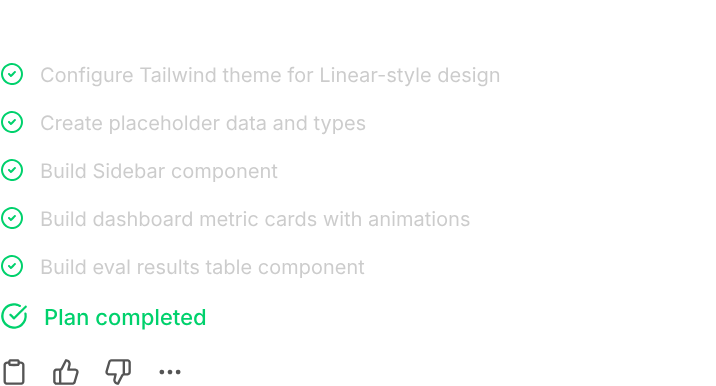
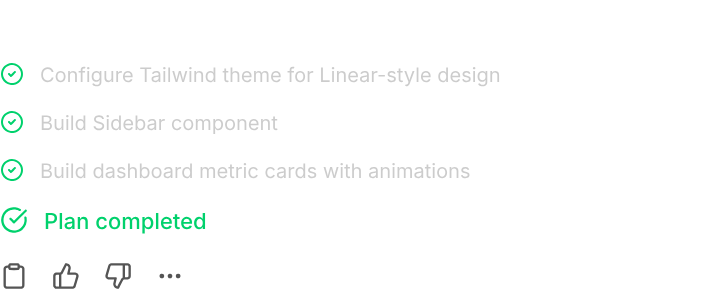
Hero chat: 3-step plan + grouped finish row + bolt-pixel thinking transitions between sections

diff --git a/platform.html b/platform.html
@@ -1840,12 +1840,42 @@
     /* widths as % of plan-row (= % of chat-plan since rows are width:100%) */
     .ent-hero-section .plan-row.r-header  img { width: 14.5%; }
     .ent-hero-section .plan-row.r-status1 img { width: 70.1%; }
-    .ent-hero-section .plan-row.r-status2 img { width: 51.4%; }
     .ent-hero-section .plan-row.r-status3 img { width: 38.8%; }
     .ent-hero-section .plan-row.r-status4 img { width: 65.9%; }
-    .ent-hero-section .plan-row.r-status5 img { width: 51.1%; }
-    .ent-hero-section .plan-row.r-status6 img { width: 29.0%; }
-    .ent-hero-section .plan-row.r-actrow  img { width: 25.7%; }
+    /* Final group: 'Plan completed' + action icons appear together */
+    .ent-hero-section .plan-row.r-finish .r-finish-status { width: 29.0%; margin-bottom: 0.42vw; }
+    .ent-hero-section .plan-row.r-finish .r-finish-actrow { width: 25.7%; }
+
+    /* Bolt-shaped pixel-fill transition shown briefly between sections */
+    .ent-hero-section .bolt-transition {
+      position: absolute;
+      left: 1.0%;
+      width: 6.5%;
+      aspect-ratio: 100 / 43;
+      opacity: 0;
+      pointer-events: none;
+      will-change: opacity;
+      transition: none;
+      z-index: 4;
+      -webkit-mask-image: url('images/bolt-logo.svg');
+              mask-image: url('images/bolt-logo.svg');
+      -webkit-mask-size: contain;
+              mask-size: contain;
+      -webkit-mask-repeat: no-repeat;
+              mask-repeat: no-repeat;
+      -webkit-mask-position: left center;
+              mask-position: left center;
+    }
+    .ent-hero-section .bolt-transition canvas {
+      display: block;
+      width: 100%;
+      height: 100%;
+      image-rendering: pixelated;
+    }
+    /* Position each thinking transition just where the next section will appear */
+    .ent-hero-section .bolt-1 { top: 38.0%; }   /* before .chat-prompt */
+    .ent-hero-section .bolt-2 { top: 44.5%; }   /* before .chat-results */
+    .ent-hero-section .bolt-3 { top: 69.0%; }   /* before .chat-prompt2 */
     /* Card: positioned by JS via CSS vars; transform-origin centered for clean scaling */
     .ent-hero-section .hero-form-card {
       position: absolute;
@@ -2414,15 +2444,18 @@
         <div class="chat-overlay chat-plan" aria-hidden="true">
           <div class="plan-row r-header"><img src="images/chat/fFel4.png" alt="" /></div>
           <div class="plan-row r-status1"><img src="images/chat/nyRJq.png" alt="" /></div>
-          <div class="plan-row r-status2"><img src="images/chat/b2eyg.png" alt="" /></div>
           <div class="plan-row r-status3"><img src="images/chat/PHzLg.png" alt="" /></div>
           <div class="plan-row r-status4"><img src="images/chat/B8WGCF.png" alt="" /></div>
-          <div class="plan-row r-status5"><img src="images/chat/WbGlX.png" alt="" /></div>
-          <div class="plan-row r-status6"><img src="images/chat/K2Ygr.png" alt="" /></div>
-          <div class="plan-row r-actrow"><img src="images/chat/F4b7tY.png" alt="" /></div>
+          <div class="plan-row r-finish">
+            <img class="r-finish-status" src="images/chat/K2Ygr.png" alt="" />
+            <img class="r-finish-actrow" src="images/chat/F4b7tY.png" alt="" />
+          </div>
         </div>
+        <div class="bolt-transition bolt-1" aria-hidden="true"><canvas></canvas></div>
         <div class="chat-overlay chat-prompt"  aria-hidden="true"><img src="images/chat/n5Biu.png" alt="" /></div>
+        <div class="bolt-transition bolt-2" aria-hidden="true"><canvas></canvas></div>
         <div class="chat-overlay chat-results" aria-hidden="true"><img src="images/chat/H5fThN.png" alt="" /></div>
+        <div class="bolt-transition bolt-3" aria-hidden="true"><canvas></canvas></div>
         <div class="chat-overlay chat-prompt2" aria-hidden="true"><img src="images/chat/b9pbI.png" alt="" /></div>
       </div>
 
@@ -3846,19 +3879,24 @@
   var section = document.querySelector('.ent-hero-section');
   if (!section) return;
   // Each animated element with its own appearAt (fraction of LOOP_MS).
-  // Plan rows spaced 1.1s apart; sections after plan have natural pauses.
+  // Plan rows spaced 1.1s apart; bolt-thinking transition fills between sections.
   var overlays = [
     { sel: '.plan-row.r-header',  appearAt: 0.030 },  // 0.6s
     { sel: '.plan-row.r-status1', appearAt: 0.085 },  // 1.7s
-    { sel: '.plan-row.r-status2', appearAt: 0.140 },  // 2.8s
-    { sel: '.plan-row.r-status3', appearAt: 0.195 },  // 3.9s
-    { sel: '.plan-row.r-status4', appearAt: 0.250 },  // 5.0s
-    { sel: '.plan-row.r-status5', appearAt: 0.305 },  // 6.1s
-    { sel: '.plan-row.r-status6', appearAt: 0.360 },  // 7.2s — Plan completed (green)
-    { sel: '.plan-row.r-actrow',  appearAt: 0.415 },  // 8.3s — action icons
-    { sel: '.chat-prompt',        appearAt: 0.480 },  // 9.6s — first prompt
+    { sel: '.plan-row.r-status3', appearAt: 0.140 },  // 2.8s
+    { sel: '.plan-row.r-status4', appearAt: 0.195 },  // 3.9s
+    { sel: '.plan-row.r-finish',  appearAt: 0.260 },  // 5.2s — Plan completed + action icons together
+    { sel: '.chat-prompt',        appearAt: 0.420 },  // 8.4s — first prompt
     { sel: '.chat-results',       appearAt: 0.560 },  // 11.2s — bolt response
-    { sel: '.chat-prompt2',       appearAt: 0.770 }   // 15.4s — second prompt
+    { sel: '.chat-prompt2',       appearAt: 0.780 }   // 15.6s — second prompt
+  ];
+
+  // Bolt-pixel "thinking" transitions shown briefly before each next section.
+  // The pixel-fill animation runs from `start` → `end`, then the section appears.
+  var transitions = [
+    { sel: '.bolt-1', start: 0.330, end: 0.420 },  // between plan-finish and prompt
+    { sel: '.bolt-2', start: 0.470, end: 0.560 },  // between prompt and results
+    { sel: '.bolt-3', start: 0.690, end: 0.780 }   // between results and prompt2
   ];
   var els = overlays.map(function (o) {
     o.el = section.querySelector(o.sel);
@@ -3870,6 +3908,51 @@
   var FADE_IN_MS = 400;
   var FADE_OUT_MS = 700;
   var HOLD_OUT_AT = 0.92; // start fade-out at 92% of loop
+
+  // Set up each thinking transition: bolt-shaped div with a noise-fill canvas.
+  var transElements = transitions.map(function (t) {
+    var el = section.querySelector(t.sel);
+    if (!el) return null;
+    var canvas = el.querySelector('canvas');
+    var ctx = canvas.getContext('2d');
+    var spacing = 4, dot = 2;
+    var cols = 0, rows = 0, noise = [];
+    function resize() {
+      var r = el.getBoundingClientRect();
+      if (!r.width || !r.height) return;
+      canvas.width = Math.round(r.width);
+      canvas.height = Math.round(r.height);
+      cols = Math.ceil(canvas.width / spacing);
+      rows = Math.ceil(canvas.height / spacing);
+      noise = [];
+      for (var y = 0; y < rows; y++) {
+        noise[y] = [];
+        for (var x = 0; x < cols; x++) {
+          var bias = 1 - (y / Math.max(1, rows - 1)); // bottom rows fill first
+          noise[y][x] = bias * 0.55 + Math.random() * 0.55;
+        }
+      }
+    }
+    function draw(progress) {
+      if (!canvas.width) return;
+      ctx.clearRect(0, 0, canvas.width, canvas.height);
+      ctx.fillStyle = '#FAF4EB';
+      var threshold = progress * 1.3;
+      for (var y = 0; y < rows; y++) {
+        for (var x = 0; x < cols; x++) {
+          var n = noise[y][x];
+          if (n < threshold) {
+            var edge = threshold - n;
+            if (edge < 0.08 && Math.random() < 0.45) continue;
+            ctx.fillRect(x * spacing, y * spacing, dot, dot);
+          }
+        }
+      }
+    }
+    setTimeout(resize, 0); // wait for layout
+    window.addEventListener('resize', resize);
+    return { el: el, draw: draw, resize: resize, t: t };
+  }).filter(function (x) { return x; });
 
   var start = performance.now();
   function tick(t) {
@@ -3886,6 +3969,34 @@
       }
       o.el.style.opacity = p.toFixed(3);
       o.el.style.transform = 'translateY(' + ((1 - p) * 8).toFixed(2) + 'px)';
+    });
+
+    // Bolt thinking transitions: pixel-fill in, hold, fade out
+    transElements.forEach(function (te) {
+      var st = te.t.start;
+      var en = te.t.end;
+      var span = en - st;
+      var fillFrac = 0.65;       // first 65% of window: pixels fill in
+      var holdFrac = 0.20;       // next 20%: hold full
+      // remainder: fade out as next section appears
+      if (elapsed < st) {
+        te.el.style.opacity = '0';
+        te.draw(0);
+      } else if (elapsed < st + span * fillFrac) {
+        var p = (elapsed - st) / (span * fillFrac);
+        te.el.style.opacity = '1';
+        te.draw(Math.min(1, p));
+      } else if (elapsed < st + span * (fillFrac + holdFrac)) {
+        te.el.style.opacity = '1';
+        te.draw(1);
+      } else if (elapsed < en) {
+        var fadeP = (elapsed - st - span * (fillFrac + holdFrac)) / (span * (1 - fillFrac - holdFrac));
+        te.el.style.opacity = (1 - fadeP).toFixed(3);
+        te.draw(1);
+      } else {
+        te.el.style.opacity = '0';
+        te.draw(0);
+      }
     });
 
     if (elapsed < 1) requestAnimationFrame(tick);
